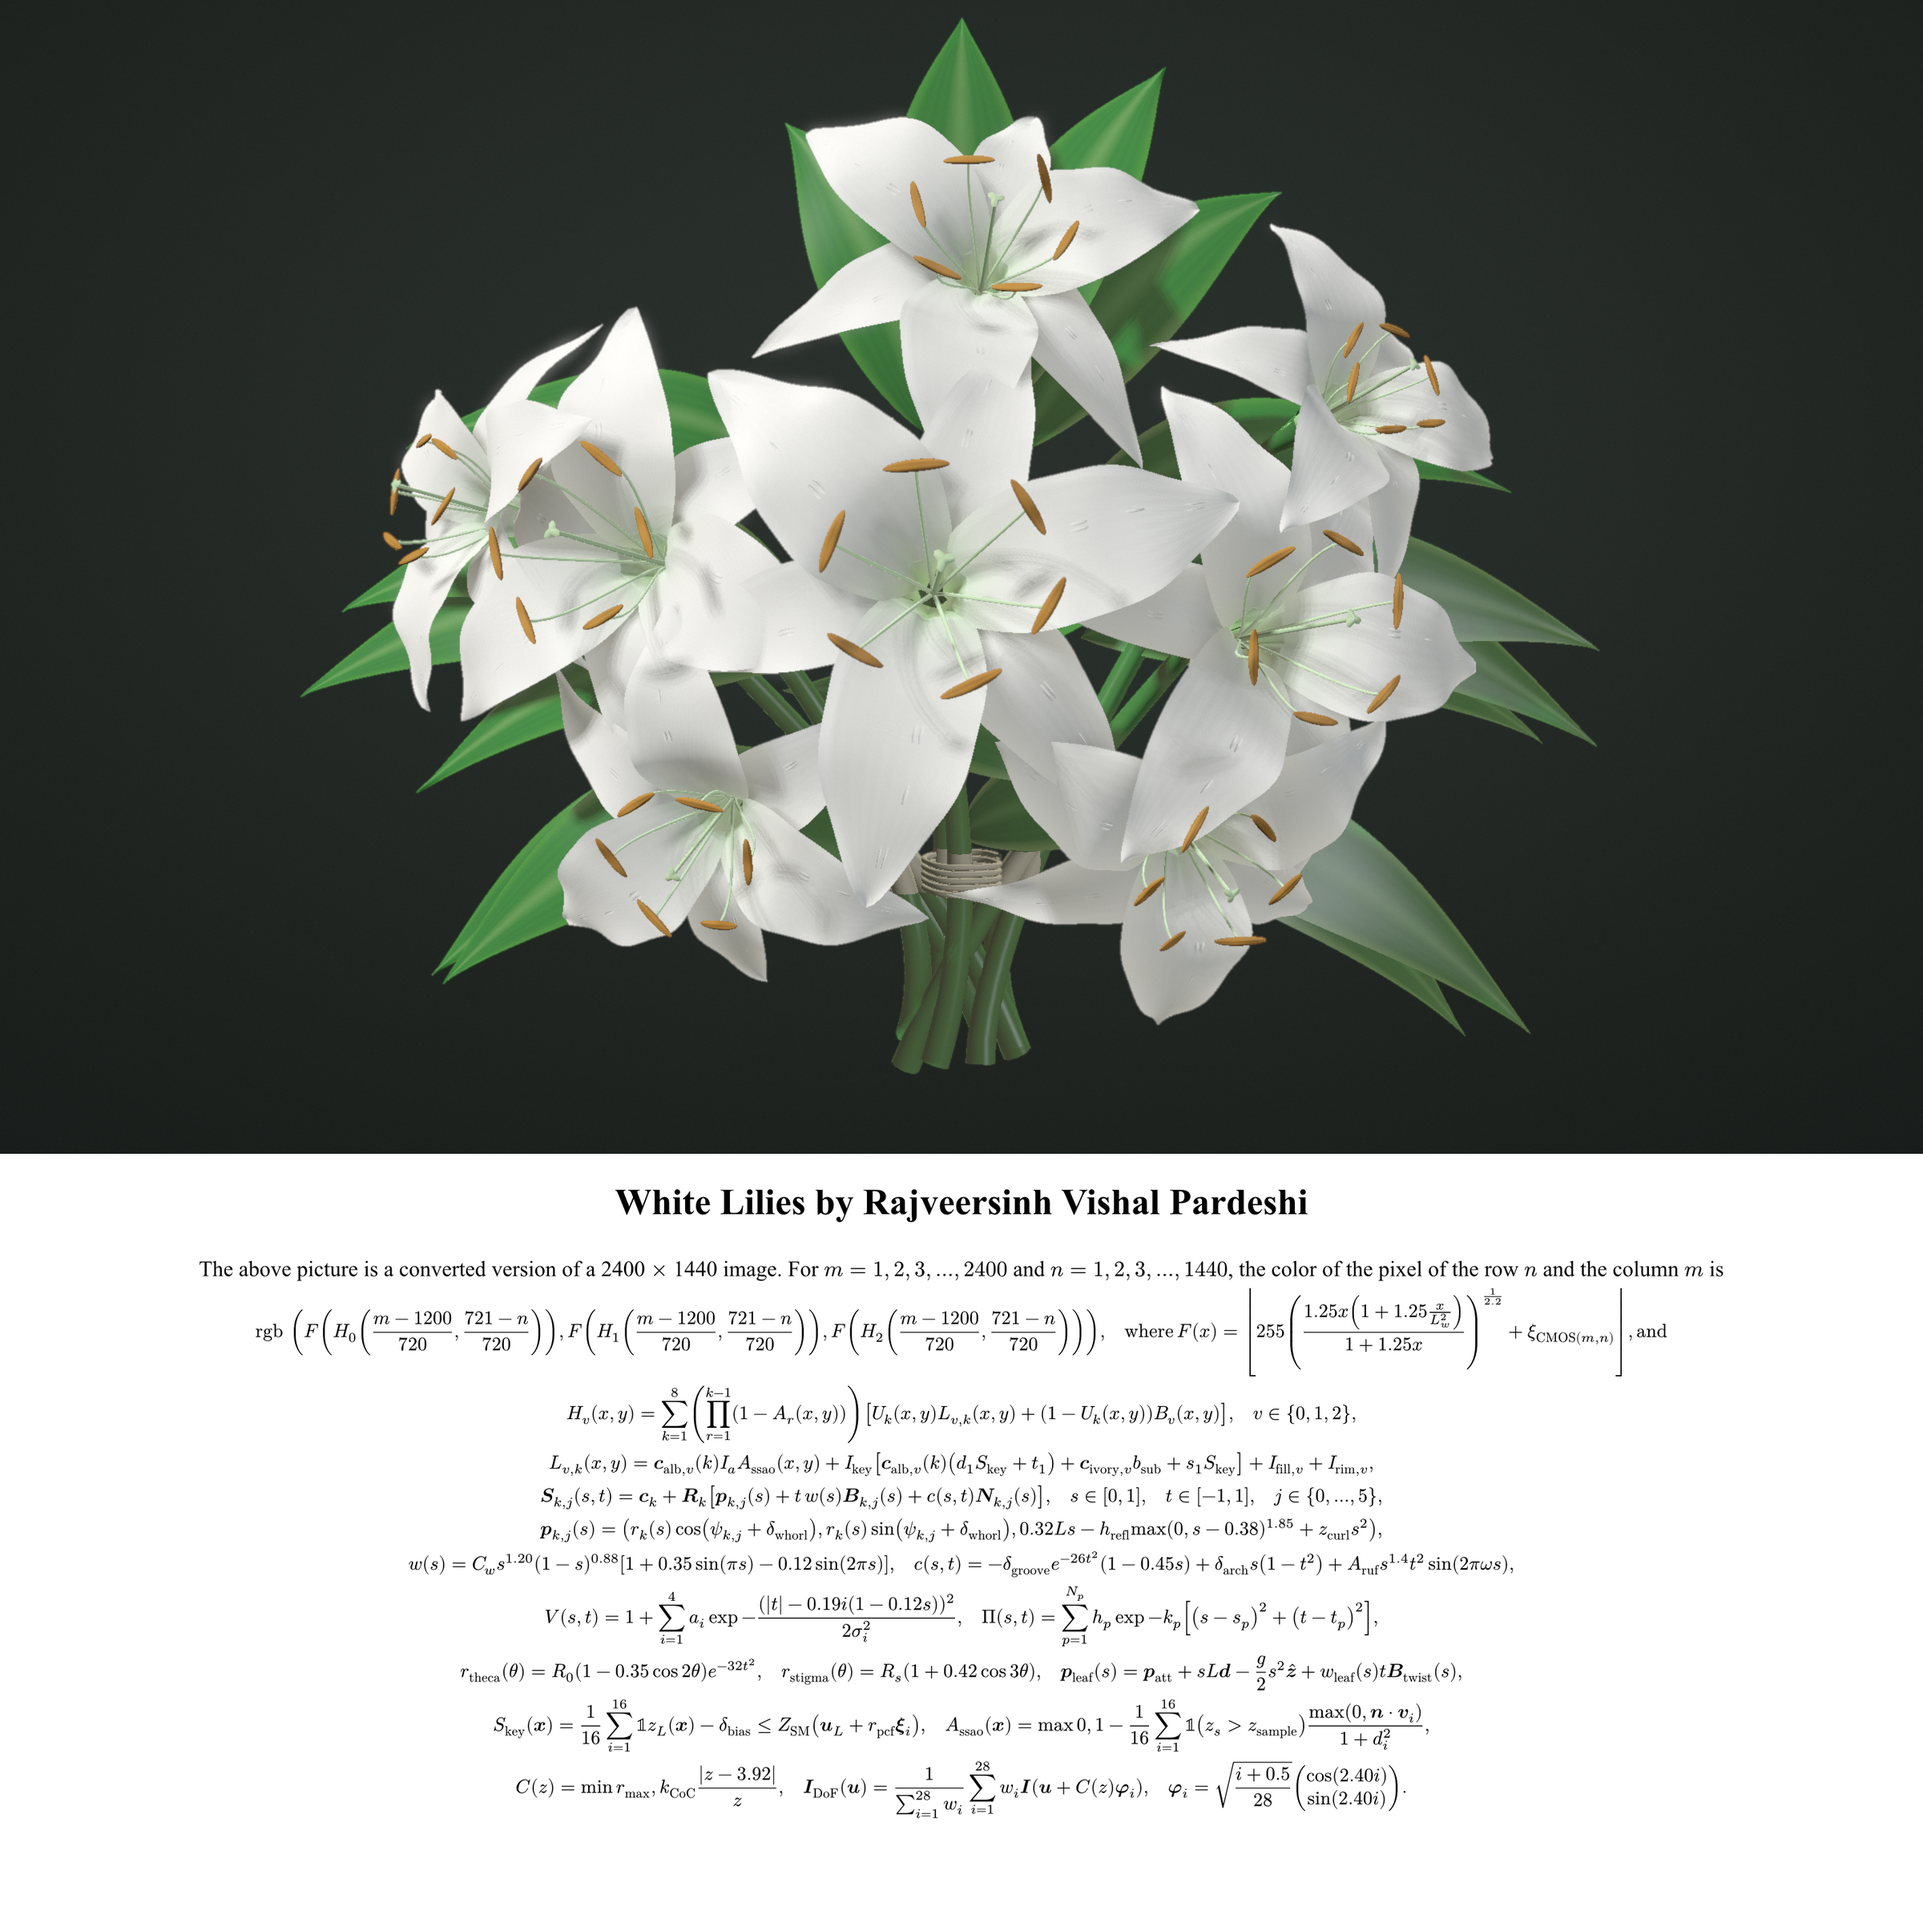
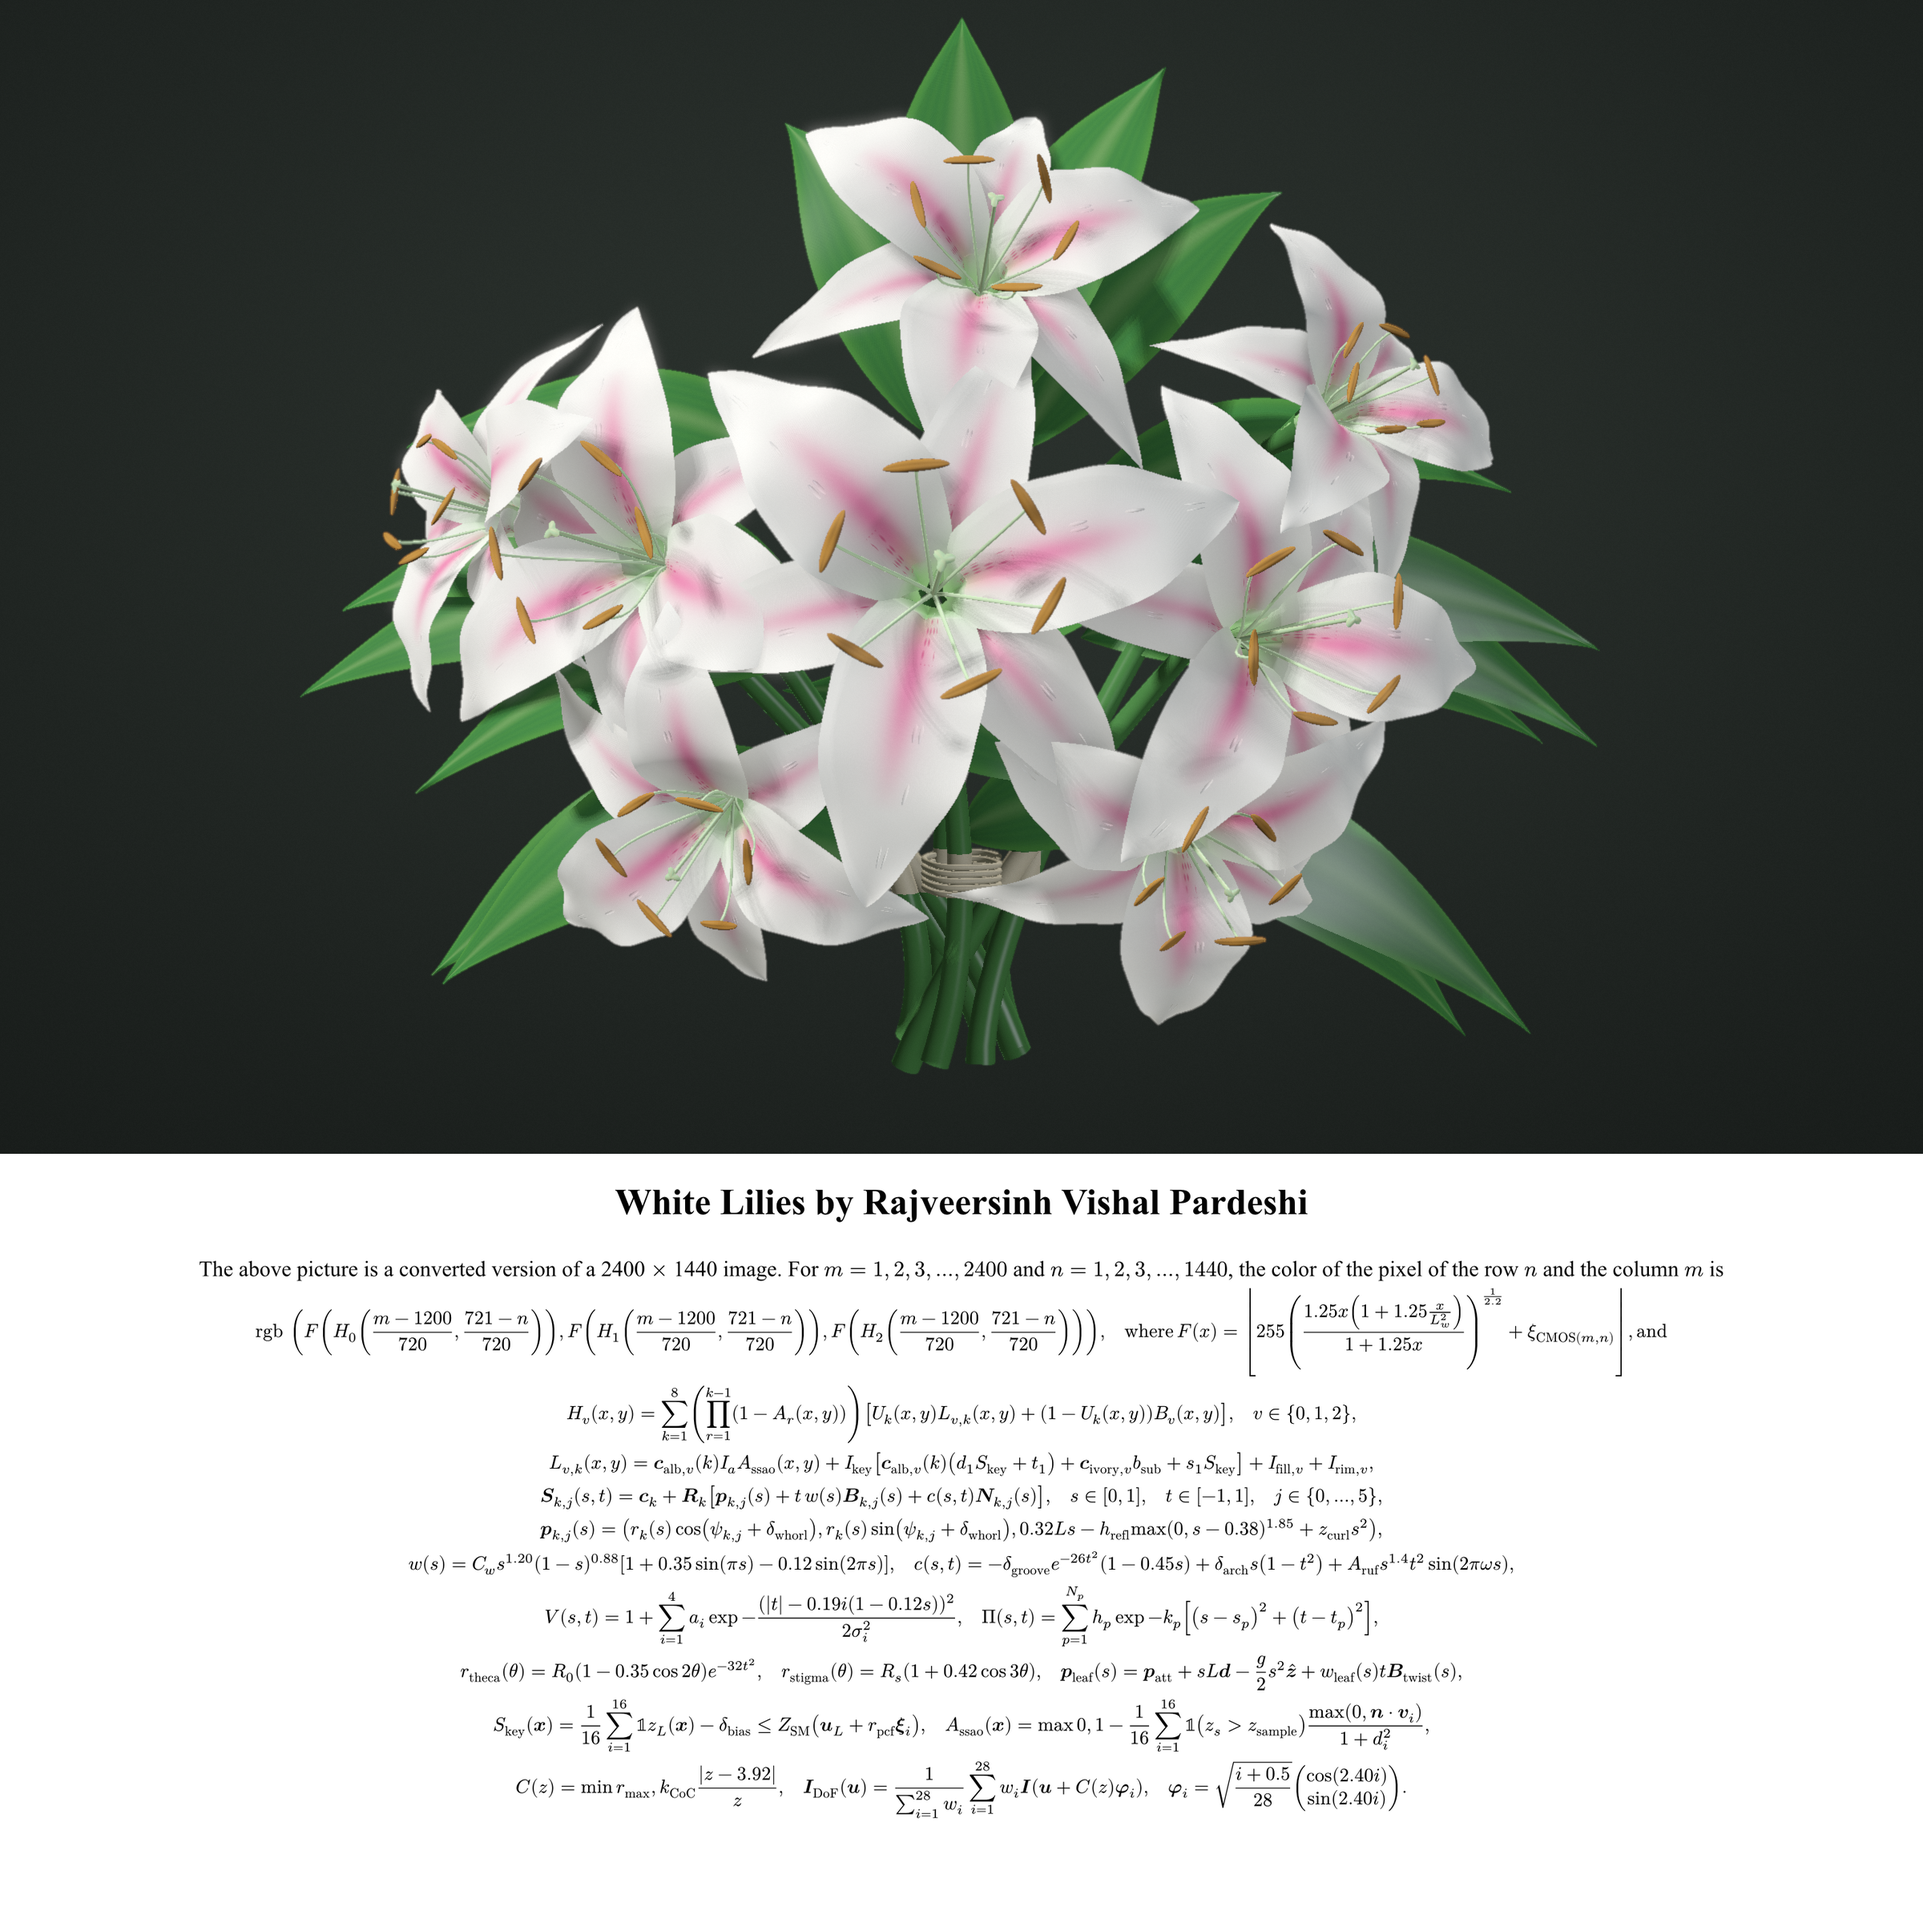
Enhance lilies with photorealistic watercolor pink blush, organic ruby papillae, and high-poly curvature

diff --git a/src/renderer.py b/src/renderer.py
@@ -422,39 +422,68 @@ def shade_scene_numba(
             
             if m_id == 1 or m_id == 2:  # Lily Tepals (Inner Petal or Outer Sepal)
                 # 1. Base luminous ivory / pristine botanical white with delicate crystalline warmth
-                r_alb = 0.985 - 0.010 * (1.0 - s)
-                g_alb = 0.980 - 0.008 * (1.0 - s)
-                b_alb = 0.960 - 0.015 * (1.0 - s)
+                r_alb = 0.988 - 0.008 * (1.0 - s)
+                g_alb = 0.984 - 0.006 * (1.0 - s)
+                b_alb = 0.966 - 0.012 * (1.0 - s)
                 
-                # 2. Celadon / chartreuse throat star gradient strictly confined to floral core (s < 0.28)
-                throat_factor = np.exp(-14.0 * (s ** 1.8))
+                # 2. Authentic Botanical Watercolor Rose-Pink Blush along adaxial petal midrib
+                # In real Oriental lilies (e.g. Lilium 'Muscadet' / 'Mona Lisa'), a delicate, radiant
+                # rosy-pink wash flows along the midrib (s in [0.12, 0.78]), softly bleeding outward across
+                # |t| < 0.40 before fading into pure crystalline white ruffled margins (|t| > 0.50).
+                if 0.12 < s < 0.80:
+                    s_pink = (s - 0.12) / 0.68
+                    pink_long = np.sin(np.pi * (s_pink ** 0.82))
+                    
+                    # Sharp median stripe right along midrib (|t| < 0.20)
+                    stripe_k = np.exp(-24.0 * (t * t))
+                    # Soft lateral watercolor wash bleeding out toward margins (|t| < 0.45)
+                    wash_k = np.exp(-6.5 * (t * t))
+                    
+                    if m_id == 1:
+                        # Inner petals: fuller, more radiant rose-pink watercolor wash
+                        stripe_w = 0.80 * stripe_k * pink_long
+                        wash_w = 0.54 * wash_k * pink_long
+                    else:
+                        # Outer sepals: slightly subtler, elegant rose blush
+                        stripe_w = 0.60 * stripe_k * pink_long
+                        wash_w = 0.40 * wash_k * pink_long
+                    
+                    # Blend the soft delicate rose watercolor wash first:
+                    r_alb = r_alb * (1.0 - wash_w) + 0.985 * wash_w
+                    g_alb = g_alb * (1.0 - wash_w) + 0.400 * wash_w
+                    b_alb = b_alb * (1.0 - wash_w) + 0.650 * wash_w
+                    
+                    # Blend the rich, vibrant rose-carmine median stripe on top:
+                    r_alb = r_alb * (1.0 - stripe_w) + 0.965 * stripe_w
+                    g_alb = g_alb * (1.0 - stripe_w) + 0.090 * stripe_w
+                    b_alb = b_alb * (1.0 - stripe_w) + 0.360 * stripe_w
+                
+                # 3. Celadon / chartreuse throat star gradient strictly confined to floral core (s < 0.24)
+                throat_factor = np.exp(-18.0 * (s ** 1.9))
                 r_alb = r_alb * (1.0 - throat_factor) + 0.38 * throat_factor
                 g_alb = g_alb * (1.0 - throat_factor) + 0.88 * throat_factor
                 b_alb = b_alb * (1.0 - throat_factor) + 0.28 * throat_factor
                 
-                # 3. Luminous green nectar furrow canal along midrib (s < 0.42, |t| < 0.22)
-                if s < 0.42 and abs_t < 0.22:
-                    nectar_w = np.exp(-36.0 * (t * t)) * (1.0 - s / 0.42)
-                    r_alb = r_alb * (1.0 - 0.35 * nectar_w) + 0.32 * (0.35 * nectar_w)
-                    g_alb = min(1.0, g_alb * (1.0 - 0.35 * nectar_w) + 0.92 * (0.35 * nectar_w))
-                    b_alb = b_alb * (1.0 - 0.35 * nectar_w) + 0.22 * (0.35 * nectar_w)
-                else:
-                    midrib_pearl = 0.020 * np.exp(-14.0 * (t * t)) * (1.0 - 0.30 * s)
-                    r_alb = min(1.0, r_alb + midrib_pearl)
-                    g_alb = min(1.0, g_alb + midrib_pearl)
-                    b_alb = min(1.0, b_alb + midrib_pearl)
+                # 4. Luminous green nectar furrow canal along midrib (s < 0.38, |t| < 0.18)
+                if s < 0.38 and abs_t < 0.18:
+                    nectar_w = np.exp(-42.0 * (t * t)) * (1.0 - s / 0.38)
+                    r_alb = r_alb * (1.0 - 0.40 * nectar_w) + 0.30 * (0.40 * nectar_w)
+                    g_alb = min(1.0, g_alb * (1.0 - 0.40 * nectar_w) + 0.92 * (0.40 * nectar_w))
+                    b_alb = b_alb * (1.0 - 0.40 * nectar_w) + 0.20 * (0.40 * nectar_w)
                 
-                # 4. Translucency, roughness, and cavity ambient occlusion
+                # 5. Translucency, roughness, and cavity ambient occlusion
                 trans_k = 0.42 + 0.36 * (abs_t ** 1.5) + 0.26 * throat_factor
-                roughness = 0.24 - 0.04 * throat_factor
-                spec_k = 0.36 if m_id == 1 else 0.28
+                roughness = 0.22 - 0.04 * throat_factor
+                spec_k = 0.38 if m_id == 1 else 0.30
                 cavity_ao = 0.48 + 0.52 * (s ** 0.85)
                 if m_id == 2:
                     cavity_ao *= 0.92
                     
-                # 5. 3D Raised Translucent Crystalline Papillae along nectary channels with delicate rose-cinnamon speckles
-                p_cell_s = s * 36.0
-                p_cell_t = t * 28.0
+                # 6. 3D Raised Botanical Papillae & Crimson Nectar Guide Freckles
+                # In real Oriental lilies, raised fleshy papillae cluster along the proximal third
+                # (s in [0.12, 0.42], |t| in [0.03, 0.25]) flanking the green nectary canal.
+                p_cell_s = s * 22.0
+                p_cell_t = t * 18.0
                 i_s = int(p_cell_s)
                 i_t = int(p_cell_t)
                 f_s = p_cell_s - float(i_s) - 0.5
@@ -462,19 +491,19 @@ def shade_scene_numba(
                 cell_hash = np.sin(float(i_s) * 127.1 + float(i_t) * 311.7) * 43758.5453
                 cell_rnd = cell_hash - np.floor(cell_hash)
                 
-                if cell_rnd > 0.42 and 0.08 < s < 0.38 and 0.03 < abs_t < 0.32:
+                if cell_rnd > 0.60 and 0.12 < s < 0.42 and 0.03 < abs_t < 0.25:
                     dist2 = f_s * f_s + f_t * f_t
-                    if dist2 < 0.22:
-                        p_height = (0.22 - dist2) / 0.22
-                        p_w = p_height * 0.22
-                        # Translucent crystalline pearl papillae on Casa Blanca lilies
-                        r_alb = min(1.0, r_alb + 0.05 * p_w)
-                        g_alb = min(1.0, g_alb + 0.05 * p_w)
-                        b_alb = min(1.0, b_alb + 0.03 * p_w)
-                        spec_k += 0.45 * p_w
+                    if dist2 < 0.18:
+                        p_height = (0.18 - dist2) / 0.18
+                        # Organic raised ruby papillae
+                        p_w = p_height * 0.75
+                        r_alb = r_alb * (1.0 - p_w) + 0.72 * p_w
+                        g_alb = g_alb * (1.0 - p_w) + 0.06 * p_w
+                        b_alb = b_alb * (1.0 - p_w) + 0.22 * p_w
+                        spec_k += 0.50 * p_w
                         roughness = max(0.06, roughness - 0.22 * p_w)
                         
-                # 6. Glistening Fresh Water / Dew Droplets
+                # 7. Glistening Fresh Water / Dew Droplets
                 is_droplet = False
                 if s > 0.35 and abs_t < 0.75:
                     d_cell_s = s * 14.0
@@ -495,12 +524,12 @@ def shade_scene_numba(
                             nx += df_s * 1.6
                             ny += df_t * 1.6
                             
-                # 7. Analytical Petal Micro-relief: fibrovascular venation & epidermal papillose luster
+                # 8. Analytical Petal Satin Cuticle & Isotropic Micro-relief
                 if not is_droplet:
-                    vein_slope = np.cos(2.0 * np.pi * 5.0 * t) * (s ** 0.6) * 0.022
-                    micro_grain = np.sin(s * 120.0 + t * 80.0) * 0.012
-                    nx += vein_slope + micro_grain
-                    ny += micro_grain
+                    p_grain = np.sin(75.0 * wx) * np.cos(75.0 * wy) * np.sin(75.0 * wz) * 0.015
+                    nx += p_grain
+                    ny += p_grain
+                    nz += p_grain
                     
                 n_len = max(1e-6, (nx*nx + ny*ny + nz*nz)**0.5)
                 nx /= n_len; ny /= n_len; nz /= n_len
@@ -697,10 +726,11 @@ def shade_scene_numba(
             s1_lobe2 = (n_dot_h1 ** spec_exp2) * (spec_k * 0.6)
             s1 = (s1_lobe1 + s1_lobe2) * (0.04 + 0.96 * fresnel) if d1 > 0.0 else 0.0
             
-            # Soft shadow subsurface light bleed (warm ivory glow inside petal shadows)
-            bounce_r = 0.12 * trans_k * (1.0 - shadow_factor) * 1.05
-            bounce_g = 0.11 * trans_k * (1.0 - shadow_factor) * 0.98
-            bounce_b = 0.08 * trans_k * (1.0 - shadow_factor) * 0.85
+            # Soft shadow subsurface light bleed (warm glow inside petal shadows coupled to albedo)
+            bounce_scale = 0.12 * trans_k * (1.0 - shadow_factor)
+            bounce_r = bounce_scale * r_alb * 1.08
+            bounce_g = bounce_scale * g_alb * 1.02
+            bounce_b = bounce_scale * b_alb * 0.95
             
             # Luminous botanical shadow response:
             # Translucent petals maintain clear contact shadow depth with forward subsurface glow

diff --git a/src/lilies.py b/src/lilies.py
@@ -227,7 +227,10 @@ class LilyTepal:
                 * (T ** 2)
                 * np.sin(2.0 * np.pi * self.ruffle_freq * S + self.phase)
             )
-            c_elev = throat_cup + midrib_camber + ventral_furrow + edge_ruffle
+            # Smoothly taper margin ruffles and camber to 0 at the acute apex tip (s=1)
+            # so all vertices across the width converge cleanly into a single sharp, organic pointed tip
+            apex_taper = (np.clip((1.0 - S) / 0.08, 0.0, 1.0) ** 0.75)
+            c_elev = (throat_cup + midrib_camber + ventral_furrow + edge_ruffle) * apex_taper
             
             spine_x = r_s * dir_x
             spine_y = r_s * dir_y
@@ -387,9 +390,9 @@ class LilyFlower:
         
         vert_offset = 0
         
-        # 1. Generate Tepals
+        # 1. Generate Tepals with high-density smooth curvature
         for tepal in self.tepals:
-            t_verts, t_faces, t_normals, t_uvs = tepal.generate_mesh(n_s=56, n_t=27)
+            t_verts, t_faces, t_normals, t_uvs = tepal.generate_mesh(n_s=92, n_t=44)
             world_verts = self.center + (self.rot_matrix @ t_verts.T).T
             world_normals = (self.rot_matrix @ t_normals.T).T
             

diff --git a/src/foliage.py b/src/foliage.py
@@ -247,8 +247,8 @@ def generate_calyx_receptacle(
     scale: float
 ) -> Tuple[np.ndarray, np.ndarray, np.ndarray, np.ndarray]:
     """Generates a succulent green calyx/receptacle tube connecting flower base to stem."""
-    n_slices = 8
-    n_steps = 6
+    n_slices = 16
+    n_steps = 10
     z_min = -0.15 * scale
     z_max = 0.01 * scale
     
@@ -765,7 +765,7 @@ class BouquetScene:
             
         # 2. Generate Stems
         for stem in self.stems:
-            s_verts, s_faces, s_normals, s_uvs = stem.generate_mesh(n_steps=24, n_radial=8)
+            s_verts, s_faces, s_normals, s_uvs = stem.generate_mesh(n_steps=32, n_radial=12)
             all_verts.append(s_verts)
             all_faces.append(s_faces + vert_offset)
             all_normals.append(s_normals)
@@ -775,7 +775,7 @@ class BouquetScene:
             
         # 3. Generate Leaves
         for leaf in self.leaves:
-            l_verts, l_faces, l_normals, l_uvs = leaf.generate_mesh(n_s=44, n_t=17)
+            l_verts, l_faces, l_normals, l_uvs = leaf.generate_mesh(n_s=56, n_t=22)
             all_verts.append(l_verts)
             all_faces.append(l_faces + vert_offset)
             all_normals.append(l_normals)
